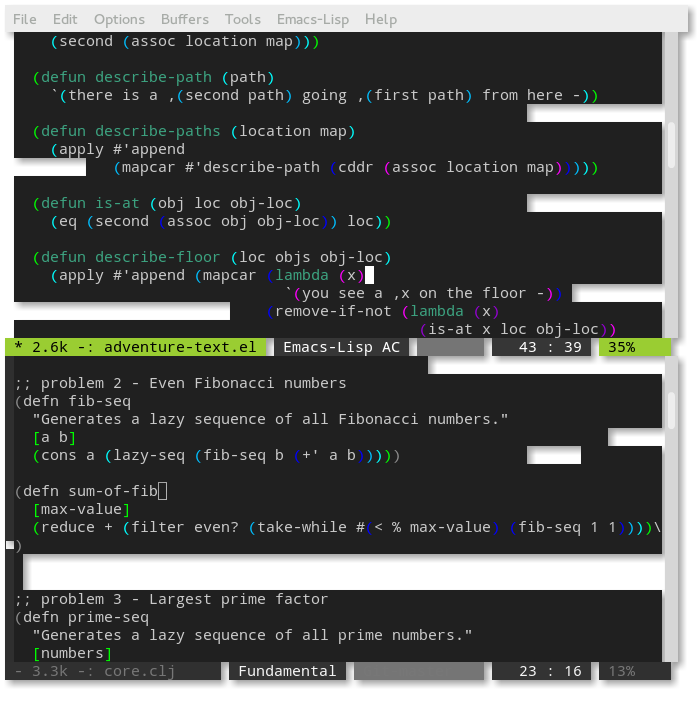
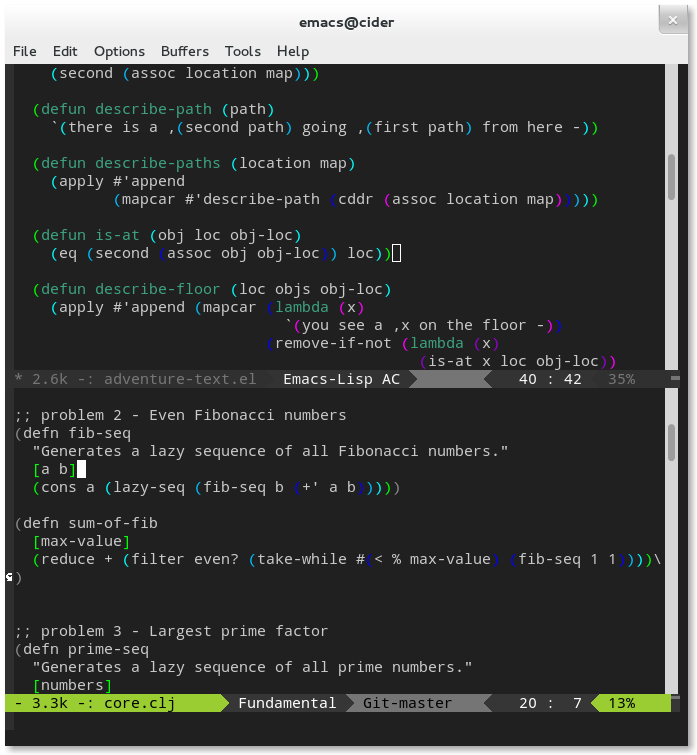
Add a capture of faceless emacs theme

diff --git a/.emacs.d/themes/README.md b/.emacs.d/themes/README.md
@@ -1,0 +1,9 @@
+Custom emacs themes
+===================
+Faceless
+--------
+Largely inspired from [the ibdknox theme for Light Table](http://www.chris-granger.com/images/050/userbehaviors.png).
+
+It's a fork of [jasonm23's bubbleberry](https://gist.github.com/jasonm23/3027622).
+
+![sample_faceless_theme](../../Images/Captures/emacs_theme_faceless_2windows.png)
